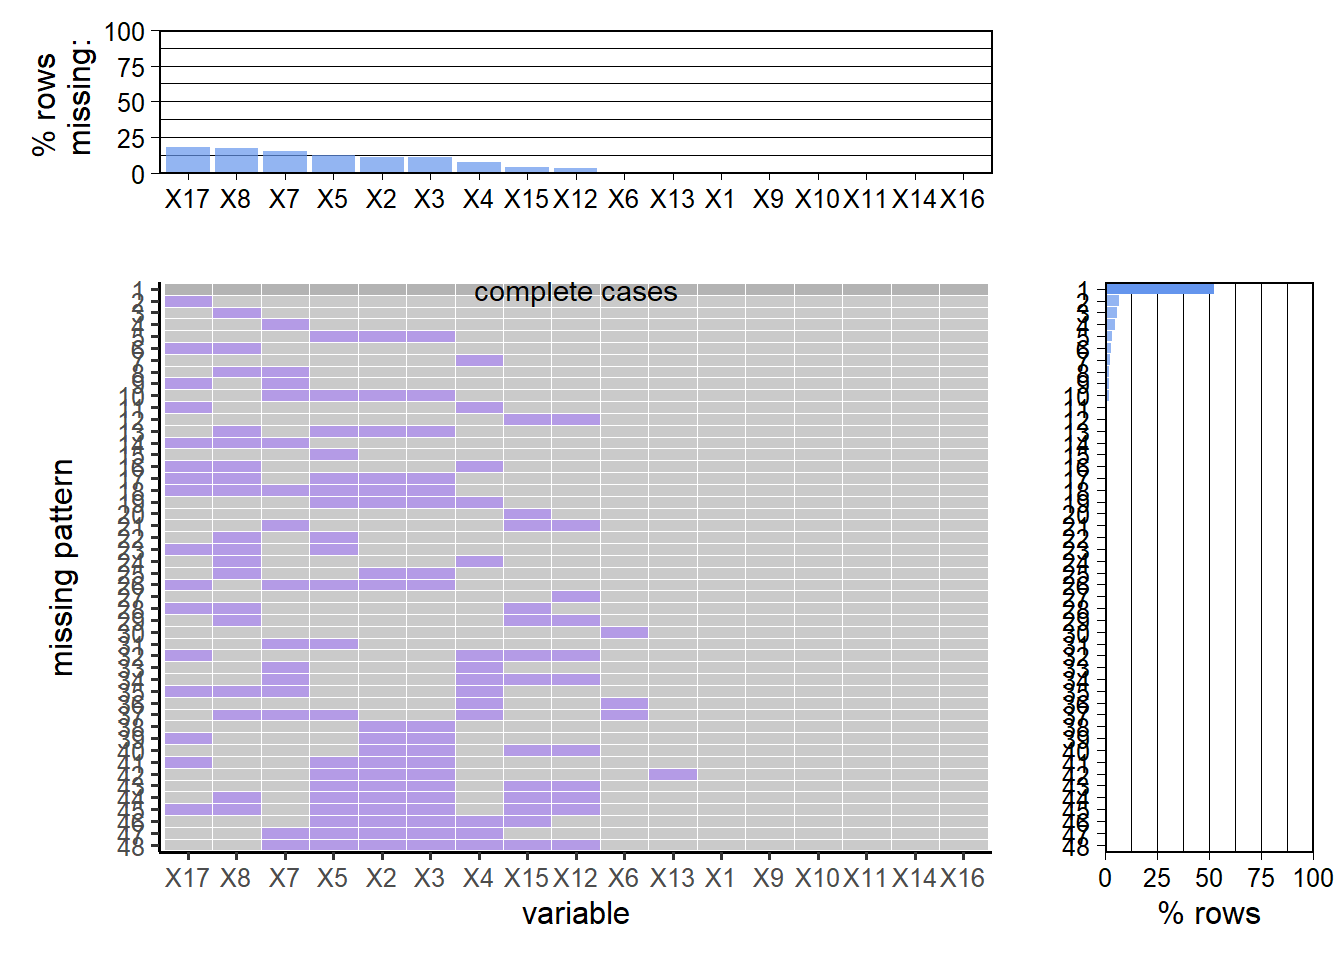
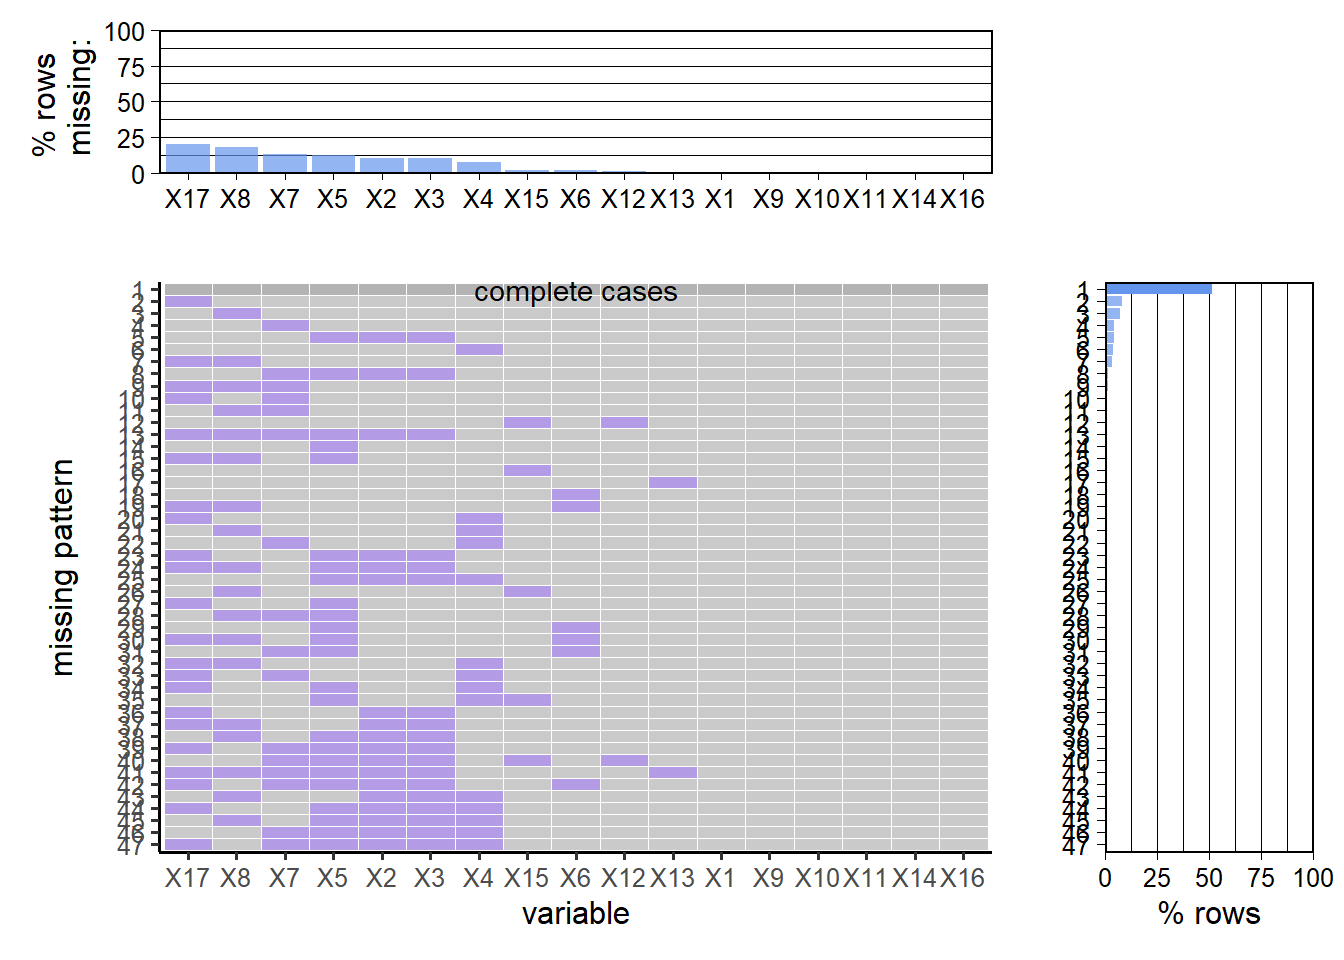
Finish missing data analysis part~

Changed region(s): [[0.0625, 0.3125, 0.75, 0.9375], [0.7812, 0.3125, 0.8125, 0.9062], [0.4062, 0.1875, 0.5, 0.2188]]

diff --git a/docs/data.html b/docs/data.html
@@ -447,13 +447,7 @@ Attaching package: 'dplyr'</code></pre>
 <div class="sourceCode cell-code" id="cb8"><pre class="sourceCode r code-with-copy"><code class="sourceCode r"><span id="cb8-1"><a href="#cb8-1" aria-hidden="true" tabindex="-1"></a>column_mapping <span class="ot">&lt;-</span> <span class="fu">setNames</span>(<span class="fu">seq_along</span>(columns), columns)</span>
 <span id="cb8-2"><a href="#cb8-2" aria-hidden="true" tabindex="-1"></a><span class="fu">names</span>(data_refined) <span class="ot">&lt;-</span> column_mapping[<span class="fu">names</span>(data_refined)]</span>
 <span id="cb8-3"><a href="#cb8-3" aria-hidden="true" tabindex="-1"></a>sampled_data <span class="ot">&lt;-</span> <span class="fu">sample_n</span>(data_refined, <span class="dv">500</span>)</span>
-<span id="cb8-4"><a href="#cb8-4" aria-hidden="true" tabindex="-1"></a>column_mapping_table <span class="ot">&lt;-</span> <span class="fu">data.frame</span>(</span>
-<span id="cb8-5"><a href="#cb8-5" aria-hidden="true" tabindex="-1"></a>  <span class="at">OriginalName =</span> <span class="fu">names</span>(column_mapping),</span>
-<span id="cb8-6"><a href="#cb8-6" aria-hidden="true" tabindex="-1"></a>  <span class="at">NumericIdentifier =</span> column_mapping,</span>
-<span id="cb8-7"><a href="#cb8-7" aria-hidden="true" tabindex="-1"></a>  <span class="at">row.names =</span> <span class="cn">NULL</span>,</span>
-<span id="cb8-8"><a href="#cb8-8" aria-hidden="true" tabindex="-1"></a>  <span class="at">stringsAsFactors =</span> <span class="cn">FALSE</span>  <span class="co"># to keep the column names as strings</span></span>
-<span id="cb8-9"><a href="#cb8-9" aria-hidden="true" tabindex="-1"></a>)</span>
-<span id="cb8-10"><a href="#cb8-10" aria-hidden="true" tabindex="-1"></a><span class="fu">print</span>(column_mapping)</span></code><button title="Copy to Clipboard" class="code-copy-button"><i class="bi"></i></button></pre></div>
+<span id="cb8-4"><a href="#cb8-4" aria-hidden="true" tabindex="-1"></a><span class="fu">print</span>(column_mapping)</span></code><button title="Copy to Clipboard" class="code-copy-button"><i class="bi"></i></button></pre></div>
 </details>
 <div class="cell-output cell-output-stdout">
 <pre><code>       Crash.Date.Time             Route.Type      Cross.Street.Type 
@@ -471,8 +465,7 @@ Attaching package: 'dplyr'</code></pre>
 </div>
 <details>
 <summary>Code</summary>
-<div class="sourceCode cell-code" id="cb10"><pre class="sourceCode r code-with-copy"><code class="sourceCode r"><span id="cb10-1"><a href="#cb10-1" aria-hidden="true" tabindex="-1"></a><span class="fu">options</span>(<span class="at">repr.plot.width =</span> <span class="dv">2</span>, <span class="at">repr.plot.height =</span> <span class="dv">5</span>) </span>
-<span id="cb10-2"><a href="#cb10-2" aria-hidden="true" tabindex="-1"></a><span class="fu">plot_missing</span>(sampled_data, <span class="at">percent =</span> <span class="cn">TRUE</span>)</span></code><button title="Copy to Clipboard" class="code-copy-button"><i class="bi"></i></button></pre></div>
+<div class="sourceCode cell-code" id="cb10"><pre class="sourceCode r code-with-copy"><code class="sourceCode r"><span id="cb10-1"><a href="#cb10-1" aria-hidden="true" tabindex="-1"></a><span class="fu">plot_missing</span>(sampled_data, <span class="at">percent =</span> <span class="cn">TRUE</span>)</span></code><button title="Copy to Clipboard" class="code-copy-button"><i class="bi"></i></button></pre></div>
 </details>
 <div class="cell-output cell-output-stderr">
 <pre><code>Scale for y is already present.
